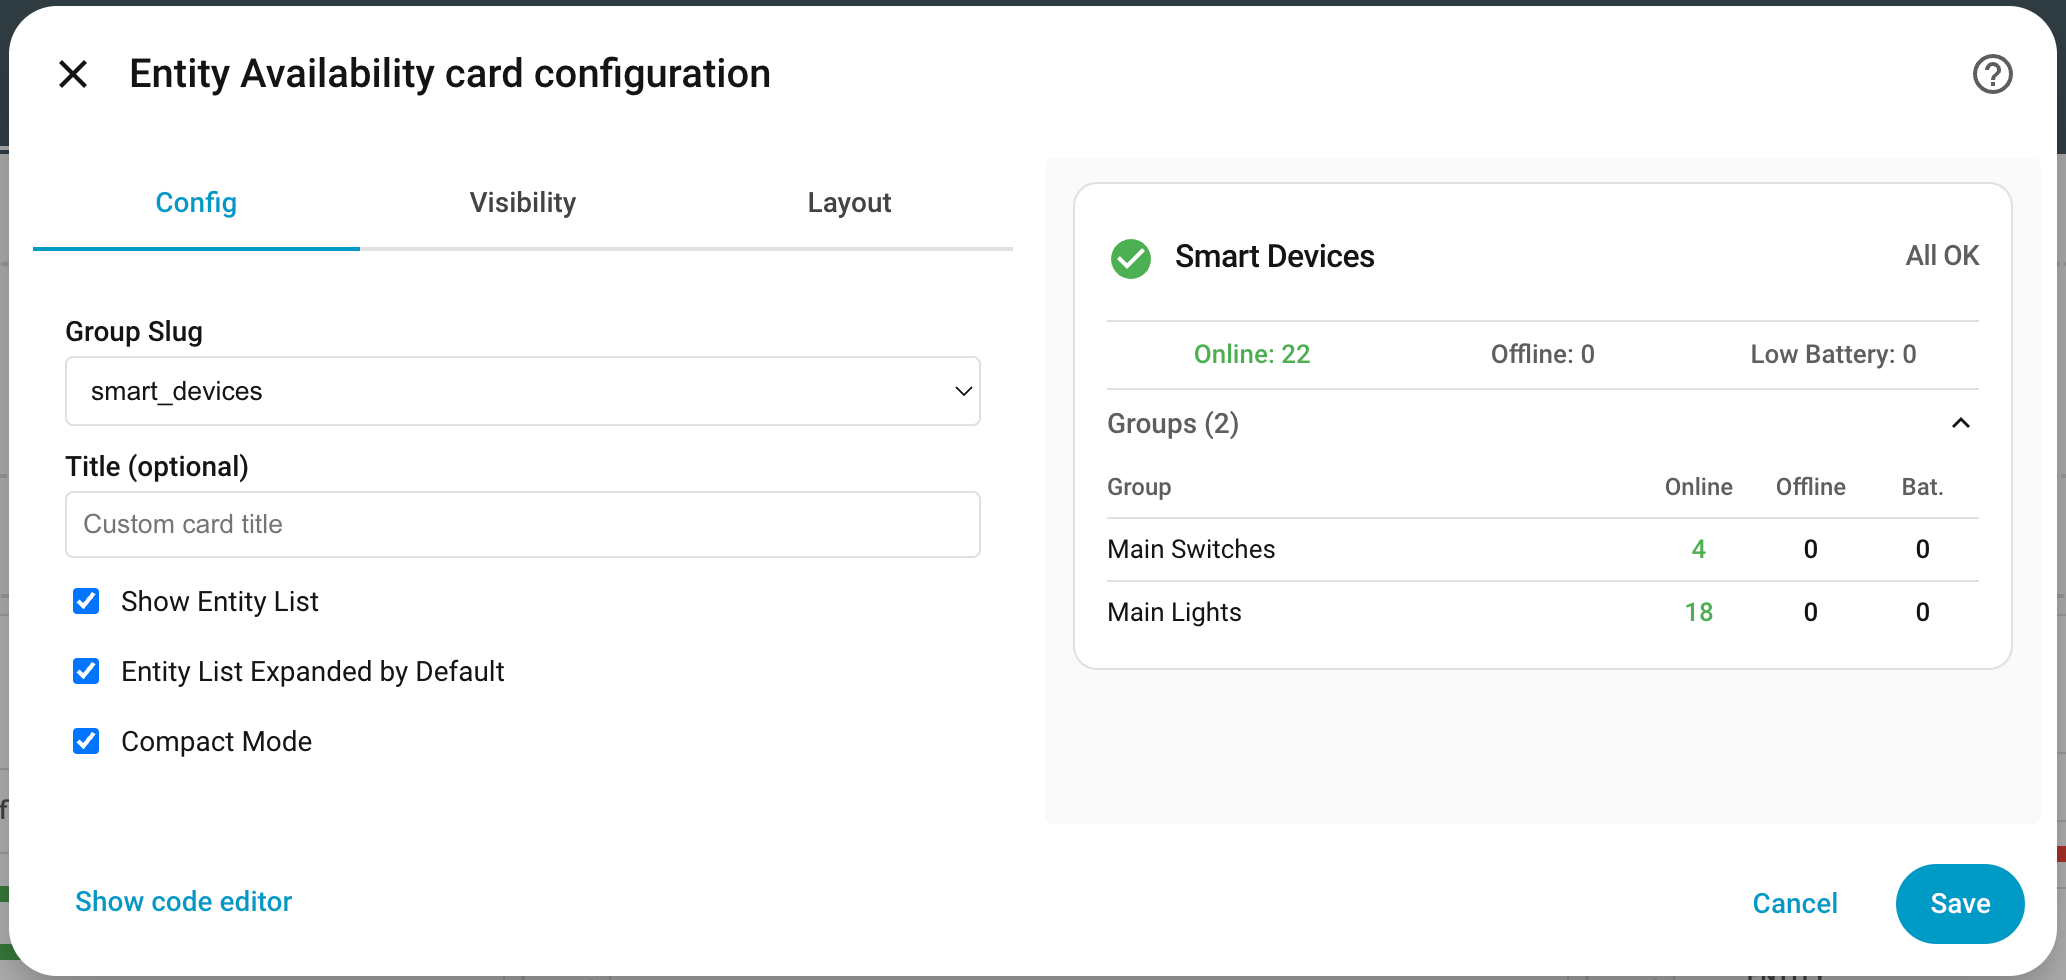
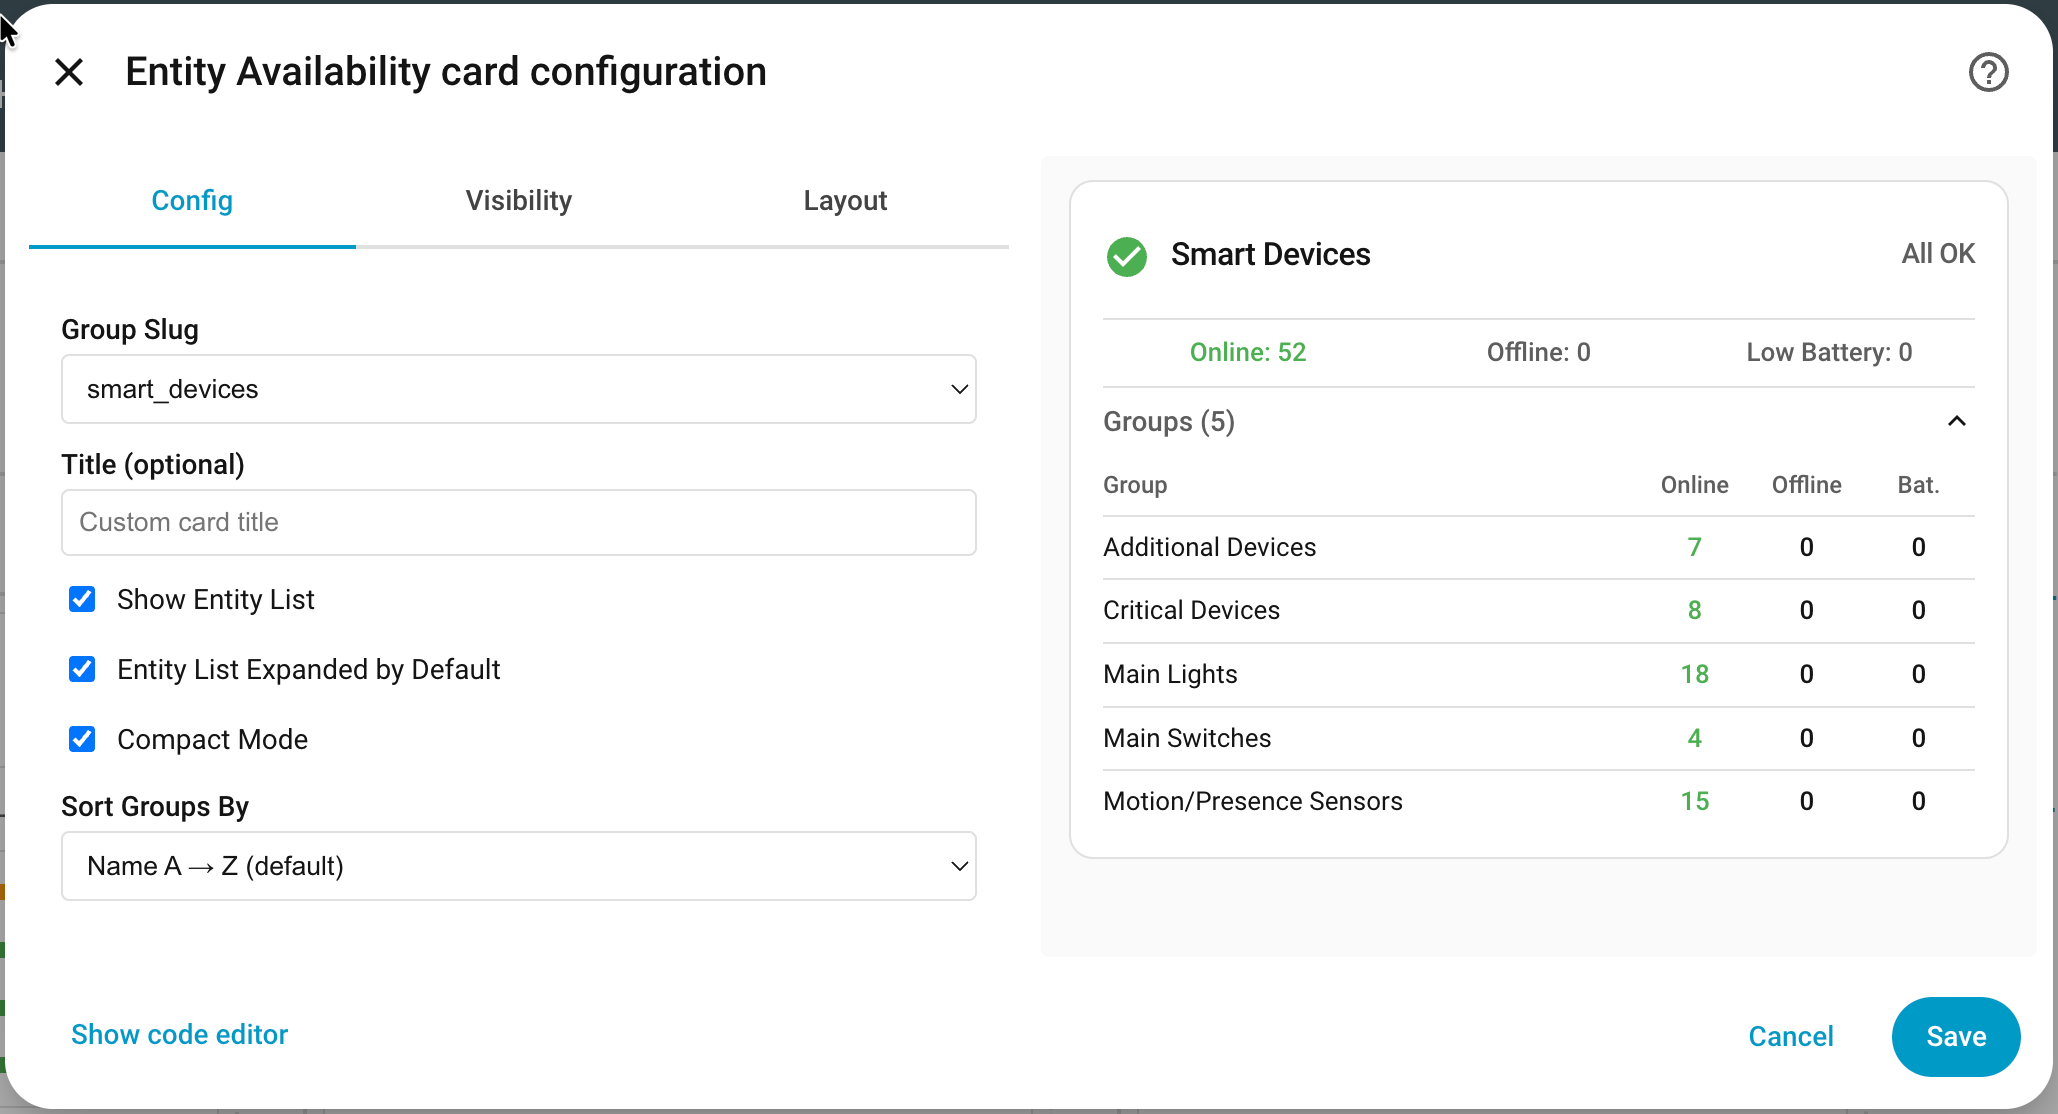
feat(card): add group_sort_by option for combined card group table
Adds a new `group_sort_by` config key (name_asc, name_desc, offline_desc)
that controls the sort order of the group breakdown table in combined group
cards. Defaults to name_asc for deterministic ordering.

Adds a Sort Groups By dropdown in the card editor, shown only when a
combined group is selected.

diff --git a/custom_components/entity_availability/frontend/entity-availability-card.js b/custom_components/entity_availability/frontend/entity-availability-card.js
@@ -797,6 +797,16 @@ class EntityAvailabilityCard extends LitElement {
     const entries = Object.entries(groups);
     if (entries.length === 0) return nothing;
 
+    const sortBy = this._config.group_sort_by || "name_asc";
+    entries.sort(([nameA, gA], [nameB, gB]) => {
+      if (sortBy === "name_desc") return nameB.localeCompare(nameA);
+      if (sortBy === "offline_desc") {
+        const diff = (gB.offline ?? 0) - (gA.offline ?? 0);
+        return diff !== 0 ? diff : nameA.localeCompare(nameB);
+      }
+      return nameA.localeCompare(nameB);
+    });
+
     const expanded = this._entitiesExpanded;
 
     return html`
@@ -1348,6 +1358,19 @@ class EntityAvailabilityCardEditor extends LitElement {
             Compact Mode
           </label>
         </div>
+        ${this._isSelectedGroupCombined() ? html`
+        <div class="editor-row">
+          <label>Sort Groups By</label>
+          <select
+            .value=${this._config.group_sort_by || "name_asc"}
+            @change=${(e) => this._updateConfig("group_sort_by", e.target.value)}
+          >
+            <option value="name_asc">Name A → Z (default)</option>
+            <option value="name_desc">Name Z → A</option>
+            <option value="offline_desc">Offline ↓ (most issues first)</option>
+          </select>
+        </div>
+        ` : nothing}
         ${!this._isSelectedGroupCombined() ? html`
         <div class="editor-row">
           <label>Entity Detail</label>

diff --git a/CHANGELOG.md b/CHANGELOG.md
@@ -2,6 +2,12 @@
 
 All notable changes to this project will be documented in this file.
 
+## [Unreleased]
+
+### Added
+- Card: `group_sort_by` option for combined group cards — sort the group breakdown table by `name_asc` (default), `name_desc`, or `offline_desc` (most offline first, ties broken by name)
+- Card editor: **Sort Groups By** dropdown shown when a combined group is selected; replaces the entity sort controls that are not applicable to combined groups
+
 ## [0.3.0-beta.4] - 2026-05-11
 
 ### Fixed

diff --git a/README.md b/README.md
@@ -224,8 +224,6 @@ The `recently_offline` and `recently_recovered` sensors use each source group's 
 
 ![Combined Group Sensors](custom_components/entity_availability/docs/05b_combined_sensors.png)
 
-<!-- screenshot: combined sensors visible in Developer Tools → States -->
-
 ### Example Automation
 
 Alert when anything across your entire home goes offline:
@@ -632,6 +630,7 @@ compact: false
 entity_detail: "off"
 entity_filter: "all"
 sort_by: status
+group_sort_by: name_asc
 availability_thresholds:
   high: 99
   mid: 95
@@ -653,6 +652,7 @@ availability_colors:
 | `entity_filter` | `"all"` | Filter entity list: `"all"`, `"offline"` (problems only: offline/stale/low battery), `"online"` (healthy only). Section title and count update to reflect filter (e.g., "Offline Entities (2/6)"). (regular groups only) |
 | `compact` | `false` | Reduced padding mode |
 | `sort_by` | `status` | Entity list sort order: `status`, `name_asc`, `name_desc`, `battery_asc`, `battery_desc` (regular groups only) |
+| `group_sort_by` | `name_asc` | Group breakdown table sort order: `name_asc`, `name_desc`, `offline_desc` (most offline first). (combined groups only) |
 | `availability_thresholds` | `{high: 99, mid: 95}` | % thresholds for bar colors (regular groups only) |
 | `availability_colors` | `{high, mid, low}` | Custom hex colors for bars (regular groups only) |
 
@@ -673,7 +673,7 @@ The card editor includes a **Group Slug** dropdown populated from all discovered
 - **Groups** — regular monitored groups
 - **Combined Groups** — aggregated combined groups
 
-Selecting a combined group hides editor controls that don't apply (availability bars, entity filter, entity detail, sort order, suppress buttons, color thresholds), leaving only the options relevant to combined group display.
+Selecting a combined group hides editor controls that don't apply (availability bars, entity filter, entity detail, entity sort order, suppress buttons, color thresholds), and shows the **Sort Groups By** dropdown instead.
 
 ### Card Preview — Regular Group
 